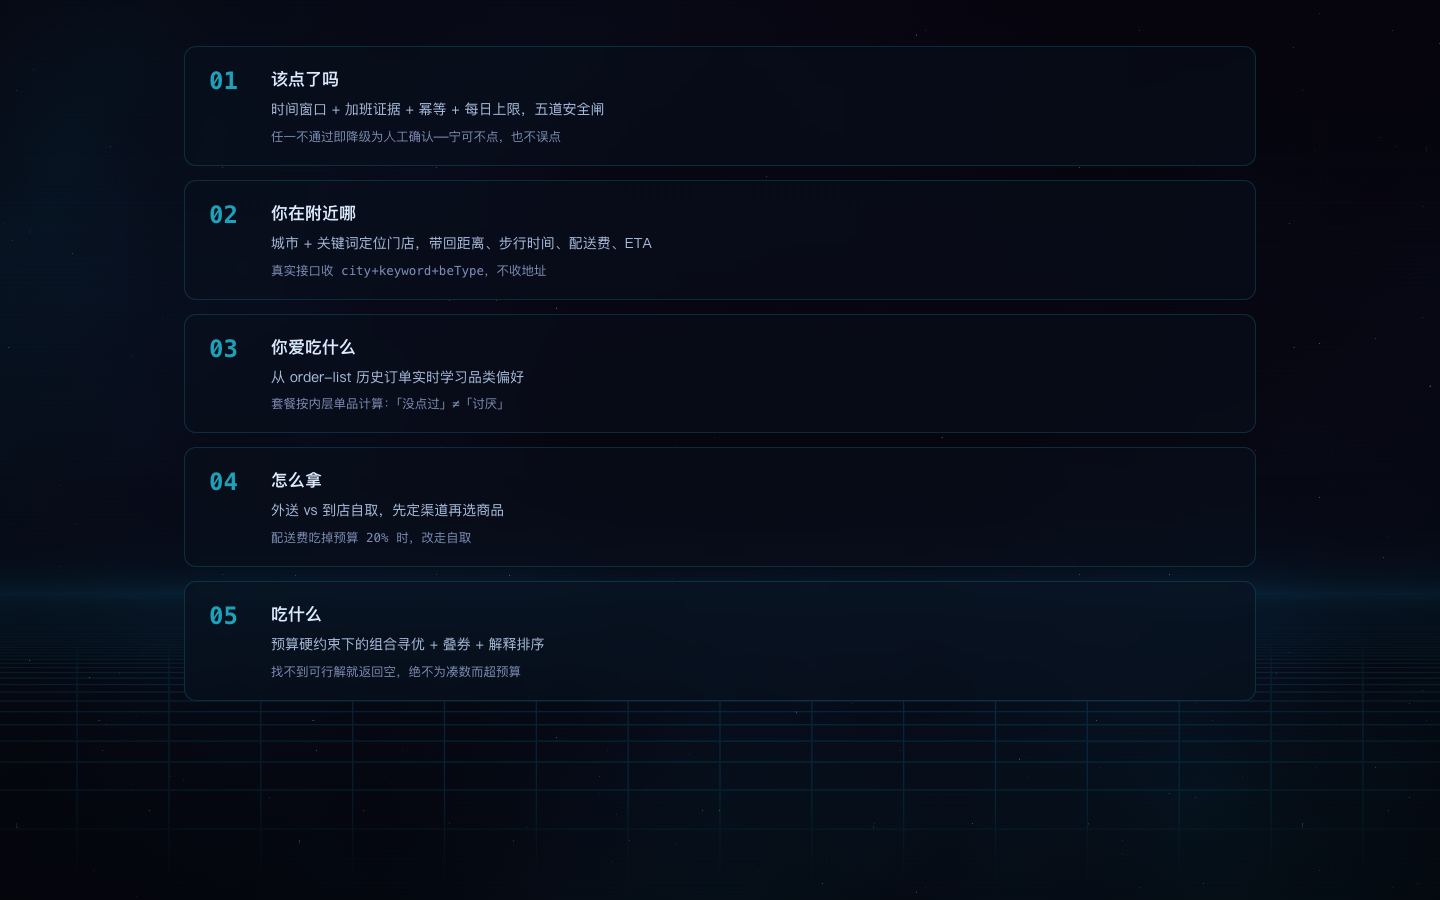
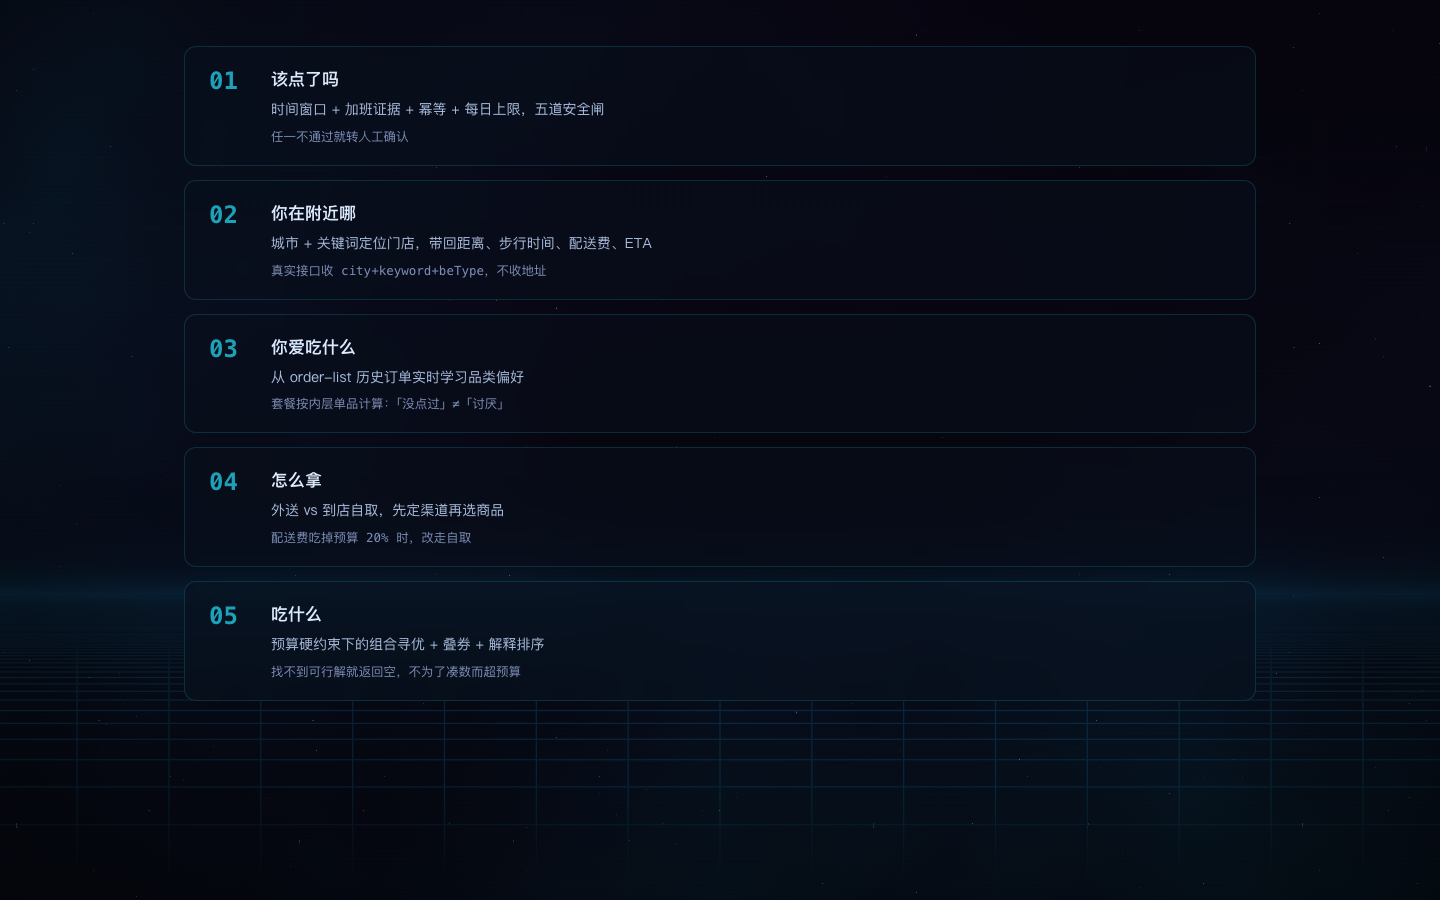
全站统一文案口径：把 AI 感的表达换成能被验证的事实
统一后的全站口径：
- 安全主张：自动花钱的产品，先学会不花钱
- 闸门行为：五道闸里只要有一道过不去，它就不下单
- 证据不足：都转人工确认（去掉「宁可不点，也不误点」这类对仗金句）
- 预算约束：超预算的方案会被直接丢掉 / 找不到可行解就返回空
- 可追溯：每一行输出都对应一次具体的 MCP 调用（去掉「每一个数字」「没有黑盒」）

涉及文件：
- README.md / SKILL.md / MCP_INTEGRATION.md / config/profile.example.yaml
- promotion/{juejin,v2ex,x}.md 三版推广帖
- web/public/{cover,spec}.html、web/src/components/Pipeline.tsx
- src/overtime_bite/{pipeline,trigger,mcp_client}.py、tests/*.py（trace 与 docstring 里的「一键领券」等营销词）

顺带修掉两处真错误：
- README.md 与 SKILL.md 都把「五道安全闸」写成「三道安全闸」
- 封面第四个指标与右下角署名重叠（已实测边界：stats 底 557 / foot 顶 566）

封面同步产品页规则：eyebrow 去胶囊、四个指标顺序与副标题与产品页一致。
规格表的安全主张同步。

文案规模：掘金 2385 字 / V2EX 1166 字 / X 五段均 ≤280 字符。
验证：67 个测试全绿；UI 审计（桌面 1440 + 移动 390，12 屏）对比度全部通过。
重截封面、规格表与 5 张产品页截图。

Changed region(s): [[0.0938, 0.7778, 0.9062, 0.8089], [0.2188, 0.1244, 0.375, 0.1556], [0.2812, 0.7156, 0.3125, 0.7467]]

diff --git a/web/public/cover.html b/web/public/cover.html
@@ -85,12 +85,10 @@
     filter: blur(14px);
   }
 
+  /* eyebrow 不做胶囊：与产品页同一套规则，去掉边框/底色/圆角 */
   .badge {
-    display: inline-flex; align-items: center; gap: 10px; align-self: flex-start;
-    padding: 7px 16px; border-radius: 999px;
-    border: 1px solid rgba(34,211,238,0.34);
-    background: rgba(8,14,28,0.62);
-    font-size: 15px; color: #8fb6d8; letter-spacing: 0.04em;
+    display: inline-flex; align-items: center; gap: 9px; align-self: flex-start;
+    font-size: 12px; font-weight: 500; letter-spacing: 0.18em; color: #7c8db5;
   }
   .dot { width: 8px; height: 8px; border-radius: 50%; background: #22d3ee; box-shadow: 0 0 10px #22d3ee; }
 
@@ -110,7 +108,7 @@
   }
   .hook b { color: #fff; font-weight: 700; }
 
-  .stats { margin-top: auto; display: flex; gap: 46px; }
+  .stats { margin-top: auto; margin-bottom: 56px; display: flex; gap: 32px; }
   .stat .v {
     font-size: 40px; font-weight: 800; line-height: 1;
     background: linear-gradient(120deg, #22d3ee, #8b5cf6);
@@ -157,10 +155,10 @@
       </div>
 
       <div class="stats">
-        <div class="stat"><div class="v">67</div><div class="k">单元测试 · 全离线可跑</div></div>
-        <div class="stat"><div class="v">¥30</div><div class="k">预算硬上限 · 永不超支</div></div>
-        <div class="stat"><div class="v">0</div><div class="k">核心逻辑运行时依赖</div></div>
-        <div class="stat"><div class="v">13</div><div class="k">真实 MCP Tool 接入</div></div>
+        <div class="stat"><div class="v">67</div><div class="k">单元测试 · 不用 Token 就能跑完</div></div>
+        <div class="stat"><div class="v">13</div><div class="k">真实 MCP Tool · 参数逐个调过</div></div>
+        <div class="stat"><div class="v">¥30</div><div class="k">预算上限 · 超了就不下单</div></div>
+        <div class="stat"><div class="v">0</div><div class="k">第三方依赖 · 只用标准库</div></div>
       </div>
     </div>
 

diff --git a/web/src/components/Pipeline.tsx b/web/src/components/Pipeline.tsx
@@ -4,7 +4,7 @@ const STEPS = [
   {
     title: '该点了吗',
     detail: '时间窗口 + 加班证据 + 幂等 + 每日上限，五道安全闸',
-    note: '任一不通过即降级为人工确认——宁可不点，也不误点',
+    note: '任一不通过就转人工确认',
   },
   {
     title: '你在附近哪',
@@ -24,7 +24,7 @@ const STEPS = [
   {
     title: '吃什么',
     detail: '预算硬约束下的组合寻优 + 叠券 + 解释排序',
-    note: '找不到可行解就返回空，绝不为凑数而超预算',
+    note: '找不到可行解就返回空，不为了凑数而超预算',
   },
 ];
 

diff --git a/web/public/spec.html b/web/public/spec.html
@@ -113,7 +113,7 @@
 
   <div class="copy-block">
     <div class="tag mono">安全主张</div>
-    <div class="copy-mid"><b style="color:#fff">自动花钱的产品，第一优先级是克制。</b></div>
+    <div class="copy-mid"><b style="color:#fff">自动花钱的产品，先学会不花钱。</b></div>
     <div class="copy-small" style="margin-top:8px">五道闸门：时间窗口 · 加班证据 · 幂等 · 每日上限 · 22:00 截止</div>
   </div>
 

diff --git a/src/overtime_bite/pipeline.py b/src/overtime_bite/pipeline.py
@@ -308,9 +308,9 @@ class OvertimeBite:
         # ---------- 5. 领券（收益最高、风险最低的一步）----------
         try:
             self.provider.bind_all_coupons()
-            trace.append("已一键领取当日可领优惠券")
+            trace.append("已领取当日全部可领优惠券")
         except Exception:  # noqa: BLE001 - 领券失败不应阻断主流程
-            trace.append("一键领券失败，改用已有券继续")
+            trace.append("领券失败，改用已有券继续")
 
         coupons = _to_coupons(
             self.provider.store_coupons(

diff --git a/src/overtime_bite/mcp_client.py b/src/overtime_bite/mcp_client.py
@@ -510,7 +510,7 @@ class McdDataProvider:
         return _as_list(data, ("coupons", "list", "data"))
 
     def bind_all_coupons(self) -> dict[str, Any]:
-        """一键领取所有可领券——这是省钱动作里收益最高、风险最低的一步。
+        """领取当日全部可领券——这是省钱动作里收益最高、风险最低的一步。
 
         注意：这是**写操作**，会真实把券领进用户账户，调用前应取得用户确认。
         """

diff --git a/tests/test_pipeline.py b/tests/test_pipeline.py
@@ -112,7 +112,7 @@ def test_end_to_end_produces_order_ready_plan():
 
 
 def test_end_to_end_binds_coupons_first():
-    """一键领券是收益最高、风险最低的一步，必须在寻优前完成。"""
+    """领券是收益最高、风险最低的一步，必须在寻优前完成。"""
     provider = MockProvider(now=datetime(2026, 10, 9, 19, 30))
     OvertimeBite(provider, OvertimeConfig(budget_cap_cents=BUDGET)).run(
         now=datetime(2026, 10, 9, 19, 30),

diff --git a/src/overtime_bite/trigger.py b/src/overtime_bite/trigger.py
@@ -59,7 +59,7 @@ def evaluate(
         state: 幂等状态
         cfg: 运行配置
         overtime_evidence: 加班证据。None 表示"无证据可用"，
-            此时**不会**自动下单，只会降级为确认——宁可不点，也不误点。
+            此时**不会**自动下单，只会转人工确认。
     """
     hour = now.hour
     window = _window_of(hour)

diff --git a/tests/test_optimizer.py b/tests/test_optimizer.py
@@ -91,7 +91,7 @@ def test_every_candidate_has_reasons():
 
 
 def test_tight_budget_returns_empty_not_overspend():
-    """找不到可行解时返回空列表，绝不为凑数而超预算。"""
+    """找不到可行解时返回空列表，不为了凑数而超预算。"""
     cands = optimize(MENU, [], budget_cents=100, profile=TasteProfile(), store=STORE)
     assert cands == []
 

diff --git a/promotion/juejin.md b/promotion/juejin.md
@@ -34,7 +34,7 @@
 | 关键洞察 | 用券省多少 | **配送费占预算多少** |
 | 个性化 | 问用户想吃什么 | **从历史订单自己学** |
 
-省钱的本质是"不浪费"。加班餐的本质是"**别让我在深夜做任何决定**"。
+省钱要的是不浪费。加班餐要的是**别让人在深夜做任何决定**。
 
 ## 三、架构：五步决策链
 
@@ -48,7 +48,7 @@
 
 核心逻辑（触发 / 寻优 / 渠道 / 画像）**零第三方依赖**，全部可以离线跑；MCP 的网络与鉴权细节收敛在单独一层。演示路径和真实路径走的是同一份 pipeline 代码——`MockProvider` 和 `McdDataProvider` 实现同一个协议。
 
-### ① 五道安全闸：自动花钱的产品，第一优先级是克制
+### ① 五道安全闸：自动花钱的产品，先学会不花钱
 
 | 闸门 | 规则 | 不通过时 |
 |---|---|---|
@@ -60,7 +60,7 @@
 
 注意"加班证据**未知**"和"确认**没在**加班"是两种不同状态，但都走同一条路：降级为人工确认。
 
-> **宁可不点，也不误点。**
+> 证据不足时它会停下来问你，而不是自己猜。
 
 以及 `dry_run=True` 是默认值。真实下单是不可逆的外部行为，默认演练、显式关闭，是这类产品应有的默认值。
 
@@ -77,13 +77,13 @@ weight = (count + 3) / (total + 6)      # 向 0.5 收缩
 - **无观测证据的品类保持中性 0.5**。"没点过" ≠ "讨厌"。把缺席当厌恶会让画像迅速固化，越用越窄。
 - **样本少时向中性收缩**。4 笔全点汉堡，权重也不会冲到 1.0。
 
-冷启动（订单 < 3 笔）时直接返回配置里的先验，不做任何推断。**宁可不学，也不要学错。**
+冷启动（订单 < 3 笔）时直接返回配置里的先验，不做任何推断。
 
 我自己的账户跑出来的画像（9 笔历史订单）：burger 0.44 / side 0.28 / drink 0.28 / chicken 0.19，偏好 spicy，辣度容忍 2/3。
 
 ### ③ 先渠道，后商品
 
-这是最容易被忽略、却最值钱的一步。
+这一步最容易被跳过，但省下的钱最多。
 
 30 元预算下，5~9 元配送费意味着 **20%~30% 的预算被吃掉**。所以正确的顺序是先把配送费这个常数项定下来：
 
@@ -95,7 +95,7 @@ weight = (count + 3) / (total + 6)      # 向 0.5 收缩
 
 ### ④ 寻优：性价比，不是便宜
 
-"价格最优"的真实含义是**花同样的钱，吃得更饱、更合口味**。
+"价格最优"不等于"最便宜"，而是**花同样的钱，吃得更饱、更合口味**。
 
 ```python
 score = 0.45 * 饱腹度      # 加班到深夜，抗饿是第一位的
@@ -104,7 +104,7 @@ score = 0.45 * 饱腹度      # 加班到深夜，抗饿是第一位的
       + 0.10 * 取餐速度
 ```
 
-约束是**过滤**而非扣分：忌口、辣度超限直接淘汰；预算超了就是超了。找不到可行解就返回空列表——**绝不为凑数而超预算**。
+约束是**过滤**而非扣分：忌口、辣度超限直接淘汰；预算超了就是超了。找不到可行解就返回空列表，不为了凑数而超预算。
 
 ## 四、真实跑通的结果
 
@@ -207,7 +207,7 @@ python examples/run_demo.py    # 离线体验，无需 Token
 
 ## 七、产品页
 
-配套做了一个产品页：自定义 GLSL 星云背景、3D 能量环决策链、逐行打字的真实运行日志——**屏幕上每一个数字都来自真实 MCP 调用输出**，没有一处是编的。
+配套做了一个产品页：自定义 GLSL 星云背景、3D 能量环决策链、逐行打字的真实运行日志——**屏幕上每个数字背后都是一次真实的 MCP 调用**。
 
 <p align="center">
   <img src="assets/page-pipeline.png" width="760" alt="决策链">

diff --git a/SKILL.md b/SKILL.md
@@ -11,17 +11,17 @@ license: MIT
 
 ## 它解决什么
 
-加班时的点餐决策，本质上是一次**低价值、高频率、被打断成本极高**的决策。
+加班到深夜的那顿外卖，是一件**本身没什么可决策、但每次都要打断你**的事。
 
 程序员加班到 20:00 以后，身体需要一顿热的，但大脑已经不想做任何决策：打开外卖 App、翻菜单、比价格、看配送费、凑单、付款——这一串动作要占掉 10 分钟注意力，而那 10 分钟本来该用来休息。
 
 OvertimeBite 把这条链路整个接管：
 
 - **时间自己走到点**就触发，不需要你想起
-- **口味从历史订单学**，越用越准，不是一套写死的偏好
-- **预算 30 元是硬上限**，绝不会因为"凑个单"就超支
+- **口味从历史订单学**，每次运行都重新算一次，不是一套写死的偏好
+- **预算 30 元是硬上限**，超预算的方案会被直接丢掉
 - **先选渠道再选商品**，因为 6 元配送费在 30 元预算里就是 20%
-- **每次都给理由**，不是一个黑盒把单下了
+- **每次都给理由**：用了哪张券、为什么选这个组合、评分怎么算的
 
 ## 五步决策链
 
@@ -33,9 +33,9 @@ OvertimeBite 把这条链路整个接管：
 ⑤ 吃什么？     →  预算内组合寻优 + 叠券 + 解释排序
 ```
 
-### ① 触发：三道安全闸
+### ① 触发：五道安全闸
 
-自动花钱的产品，第一优先级不是聪明，是**克制**。任一闸不通过，绝不自动下单：
+自动花钱的产品，先学会不花钱。五道闸里只要有一道过不去，它就不下单：
 
 | 闸门 | 规则 | 不通过时 |
 |---|---|---|
@@ -45,11 +45,11 @@ OvertimeBite 把这条链路整个接管：
 | 每日上限 | 默认 1 单 | 跳过 |
 | 截止时间 | 22:00 后不自动付钱 | 降级为人工确认 |
 
-"加班证据未知"和"确认没在加班"都会降级为需确认——**宁可不点，也不误点**。
+"加班证据未知"和"确认没在加班"都转人工确认。
 
 ### ④ 渠道：先渠道，后商品
 
-这是最容易被忽略、却最值钱的一步。
+这一步最容易被跳过，但省下的钱最多。
 
 30 元预算下，外送配送费 5~9 元意味着 **20%~30% 的预算被吃掉**。所以正确的顺序是先把配送费这个常数项定下来，再在剩余空间里选商品。
 
@@ -61,7 +61,7 @@ OvertimeBite 把这条链路整个接管：
 
 ### ⑤ 寻优：性价比，不是便宜
 
-"价格最优"不等于"最便宜"。真正的含义是**花同样的钱，吃得更饱、更合口味**。
+"价格最优"不等于"最便宜"，而是**花同样的钱，吃得更饱、更合口味**。
 
 ```python
 score = 0.45 * 饱腹度      # 加班到深夜，抗饿是第一位的
@@ -72,7 +72,7 @@ score = 0.45 * 饱腹度      # 加班到深夜，抗饿是第一位的
 
 约束是**过滤**而不是扣分：忌口、辣度超限直接淘汰；预算超了就是超了。
 
-找不到可行解时返回空列表——**绝不为凑数而超预算**。
+找不到可行解时返回空列表，不为了凑数而超预算。
 
 ## 用法
 
@@ -103,7 +103,7 @@ python examples/run_demo.py
 叠加优惠省 ¥7.00
 ```
 
-每一个数字都能追溯到一次具体的 MCP 调用，没有黑盒。
+每一行输出都对应一次具体的 MCP 调用，不会有说不清来源的数字。
 
 ## 边界
 

diff --git a/README.md b/README.md
@@ -60,7 +60,7 @@ OvertimeBite 把这条链路整个接管。
 | 关键洞察 | 用券省多少 | **配送费占预算多少** |
 | 个性化 | 问用户想吃什么 | **从历史订单自己学** |
 
-省钱的本质是"不浪费"。加班餐的本质是"**别让我在深夜做任何决定**"。
+省钱要的是不浪费。加班餐要的是**别让人在深夜做任何决定**。
 
 ---
 
@@ -74,9 +74,9 @@ OvertimeBite 把这条链路整个接管。
 ⑤ 吃什么？     预算内组合寻优 + 叠券 + 解释排序
 ```
 
-### ① 触发：三道安全闸
+### ① 触发：五道安全闸
 
-自动花钱的产品，第一优先级不是聪明，是**克制**。
+自动花钱的产品，先学会不花钱。
 
 | 闸门 | 规则 | 不通过时 |
 |---|---|---|
@@ -86,7 +86,7 @@ OvertimeBite 把这条链路整个接管。
 | 每日上限 | 默认 1 单 | 跳过 |
 | 截止时间 | 22:00 后不自动付钱 | 降级为人工确认 |
 
-> "加班证据未知"和"确认没在加班"都会降级为需确认——**宁可不点，也不误点**。
+> "加班证据未知"和"确认没在加班"都转人工确认。
 
 ### ② 门店
 
@@ -109,7 +109,7 @@ weight = (count + 6 * 0.5) / (total_items + 6)   # 贝叶斯收缩
 
 ### ④ 渠道：先渠道，后商品
 
-这是最容易被忽略、却最值钱的一步。
+这一步最容易被跳过，但省下的钱最多。
 
 30 元预算下，5~9 元配送费意味着 **20%~30% 的预算被吃掉**。所以正确的顺序是先把配送费这个常数项定下来：
 
@@ -130,7 +130,7 @@ score = 0.45 * 饱腹度      # 加班到深夜，抗饿是第一位的
       + 0.10 * 取餐速度
 ```
 
-约束是**过滤**而非扣分：忌口、辣度超限直接淘汰；预算超了就是超了。找不到可行解时返回空列表——**绝不为凑数而超预算**。
+约束是**过滤**而非扣分：忌口、辣度超限直接淘汰；预算超了就是超了。找不到可行解时返回空列表，不为了凑数而超预算。
 
 ### 先领券，再选品
 
@@ -153,7 +153,7 @@ score = 0.45 * 饱腹度      # 加班到深夜，抗饿是第一位的
     备选3: 麦辣鸡腿汉堡 + 香辣鸡翅（2块）｜麦乐送外送｜合计 ¥25.00  评分0.744
 ```
 
-每一个数字都能追溯到一次具体的 MCP 调用。**没有黑盒。**
+每一行输出都对应一次具体的 MCP 调用，不会有说不清来源的数字。
 
 ---
 
